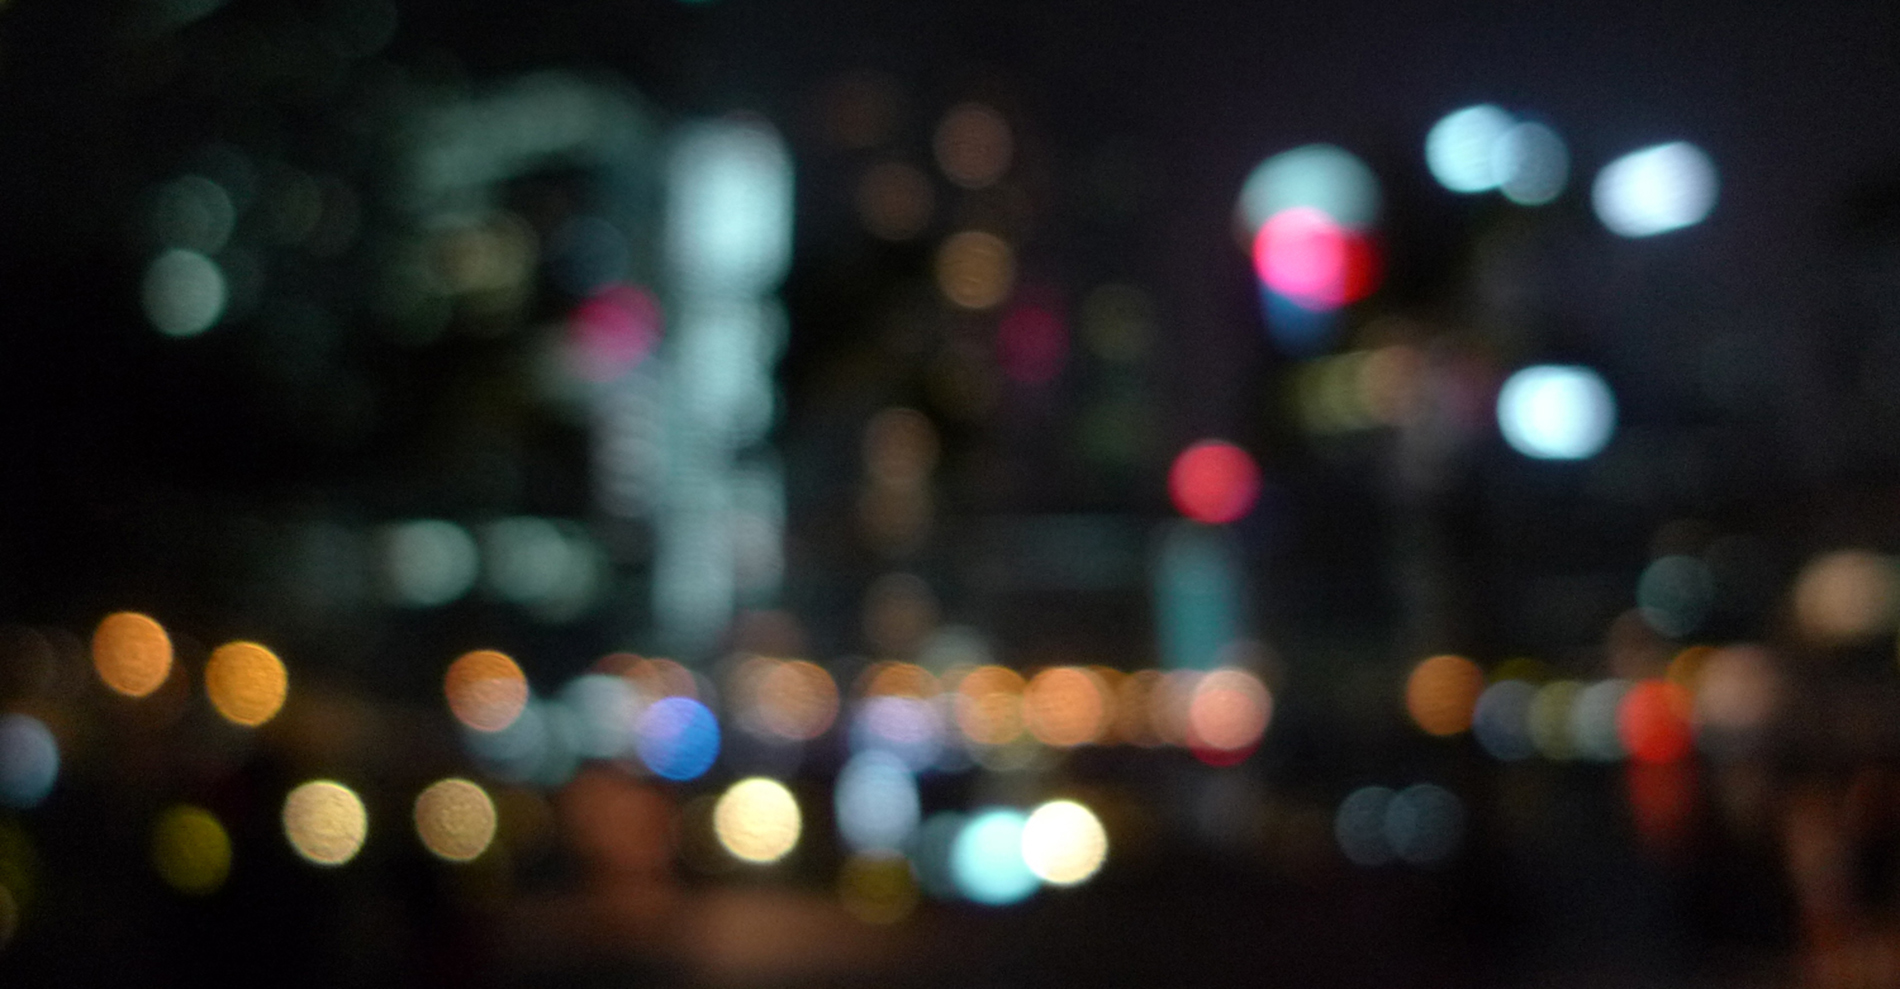
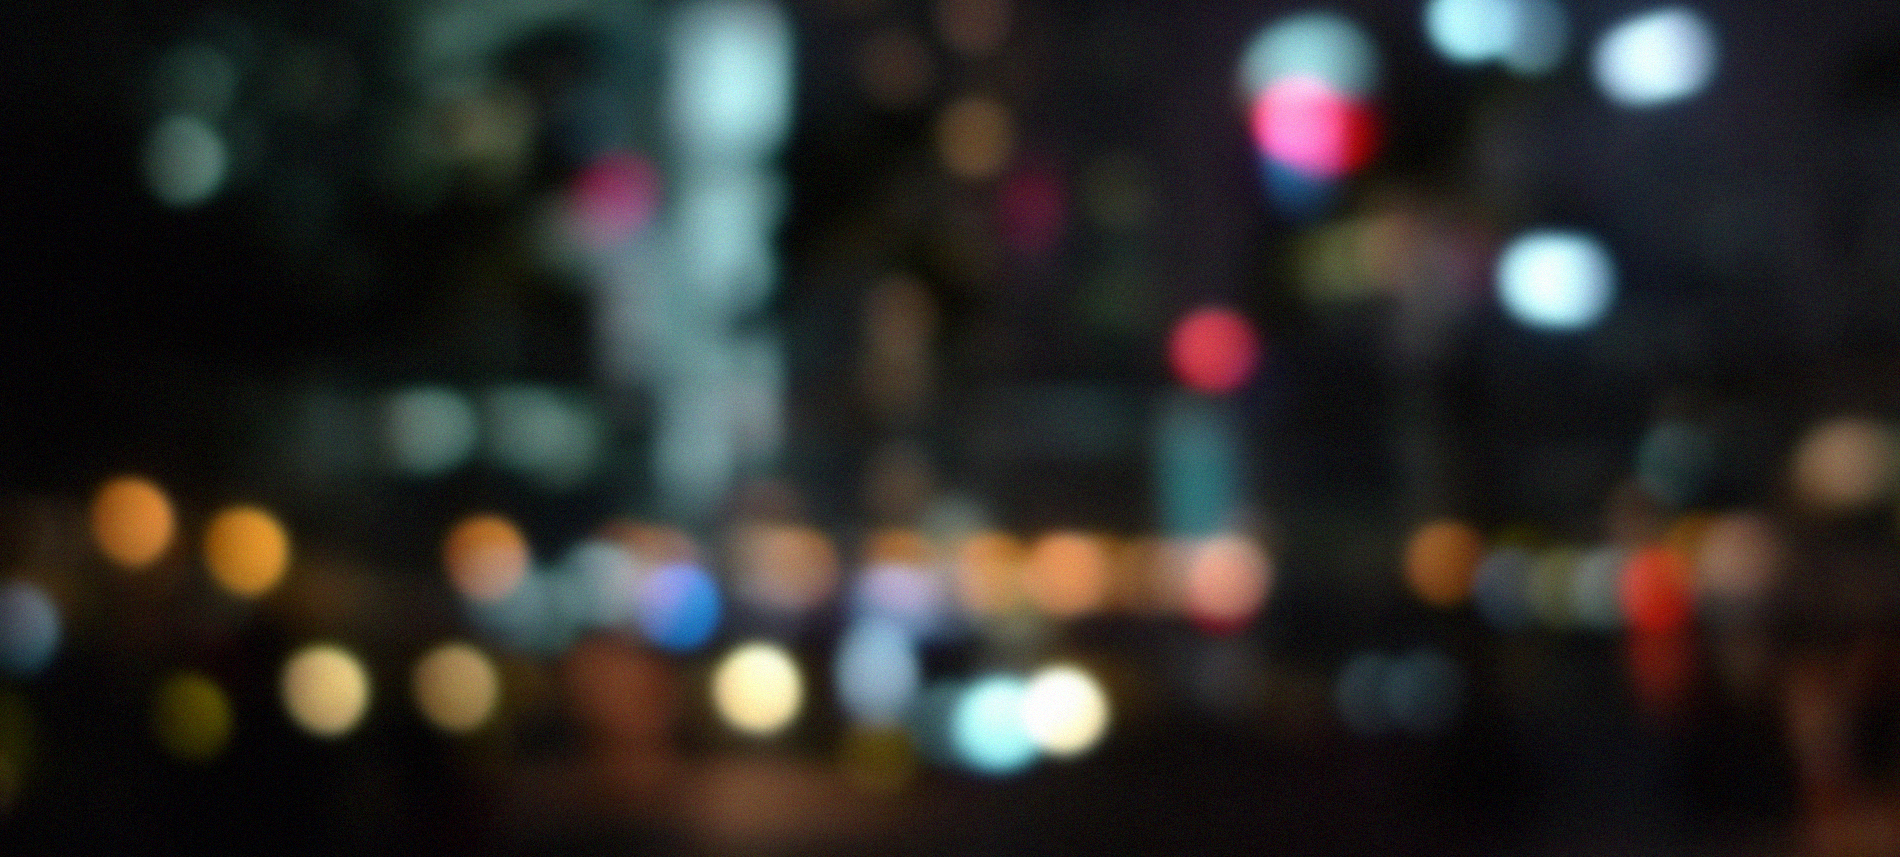
all background changed

diff --git a/app/assets/stylesheets/static_pages.css.scss b/app/assets/stylesheets/static_pages.css.scss
@@ -68,8 +68,9 @@ h5 {
 }
 
 .span4 {
-  width: 350px;
-  margin-left: 350px;
+  width: 370px;
+  margin-left: 370px;
+  margin-top: 100px;
 }
 
 
@@ -114,6 +115,7 @@ img{
 
 .info p {
   font-size: 1.3em;
+    font-family: 'Lato', sans-serif;
 }
 
 .float-center{
@@ -125,6 +127,7 @@ img{
   font-size: 2.5em;
   padding: 80px 0 0 0;
   text-align: center;
+      font-family: 'Lato', sans-serif;
 }
 
 #nav{
@@ -143,16 +146,16 @@ img{
 }
 
 #intro{
-  background:url('intro_bg.jpg') 100% 0 no-repeat fixed;
+  background:url('bg1.jpg') 100% 0 no-repeat fixed;
   color: white;
-  height: 800px;
+  height: 900px;
   margin: 0 auto;
   padding: 0;
 }
 
 #intro .bg{
   background: url('circle_logo.png') 100% 0 no-repeat fixed;
-  height: 800px;
+  height: 900px;
   margin: 0 auto;
   padding: 0px;
   position: absolute;
@@ -161,7 +164,7 @@ img{
 }
 
 #aboutme{
-  background: url('second_bg.jpg') 100% 0 no-repeat fixed;
+  background: url('bg5.jpg') 100% 0 no-repeat fixed;
   color: white;
   height: 1000px;
   margin: 0 auto;
@@ -170,26 +173,36 @@ img{
 }
 
 #aboutme2 {
-  background: url('background2.jpg') 100% 0 no-repeat fixed;
+  background: url('second_bg.jpg') 100% 0 no-repeat fixed;
   color: white;
-  height: 1000px;
+  height: 600px;
   margin: 0 auto;
   overflow: hidden;
   padding: 0;
 }
 
+#aboutme2 .bg{
+  background: url('circle_logo.png') 100% 0 no-repeat fixed;
+  height: 600px;
+  margin: 0 auto;
+  padding: 0px;
+  position: absolute;
+  width: 900px;
+  z-index: 200;
+}
+
 
 
 #gallery {
-  background: url('dark.png') 100% repeat;
-  height: 475px;
+  background: url('bg3.png') 100% repeat;
+  height: 500px;
   margin: 0 auto;
   padding: 40px 0 0 0;  
 }
 
 #contactme {
   background: url('bg3.png') 100% repeat;
-  height: 700px;
+  height: 800px;
   margin: 0 auto;
   padding: 40px 0 0 0;  
 }
